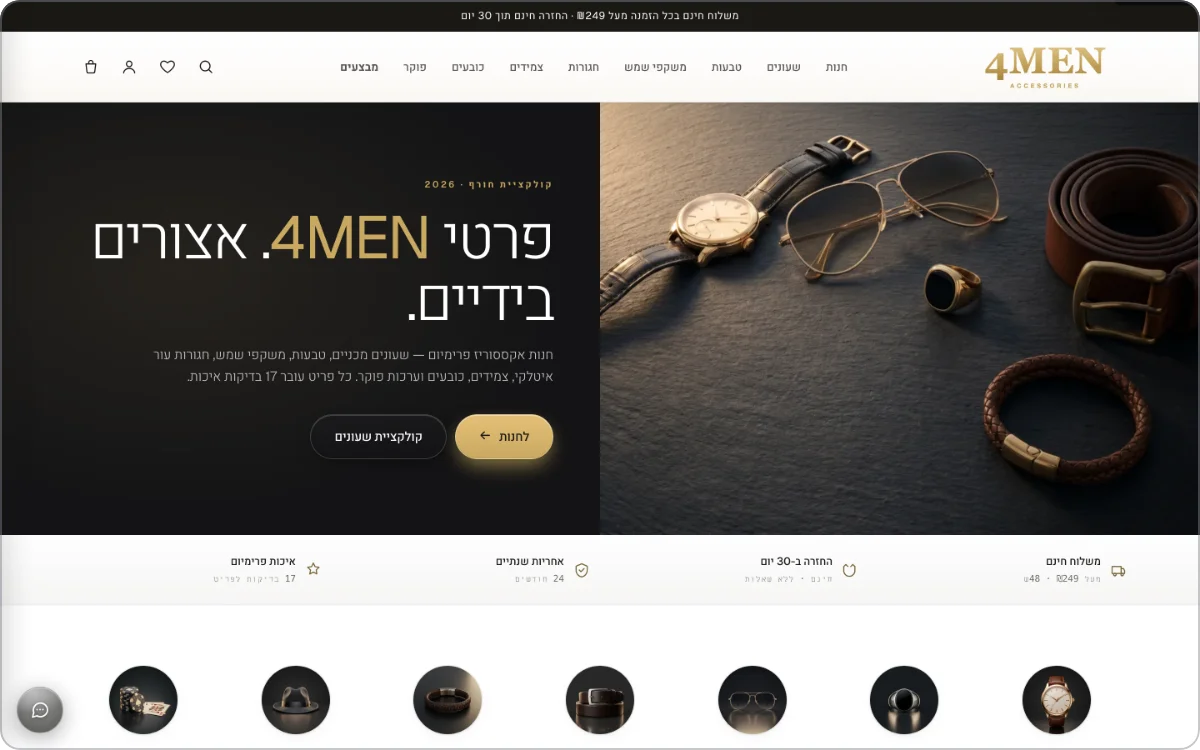
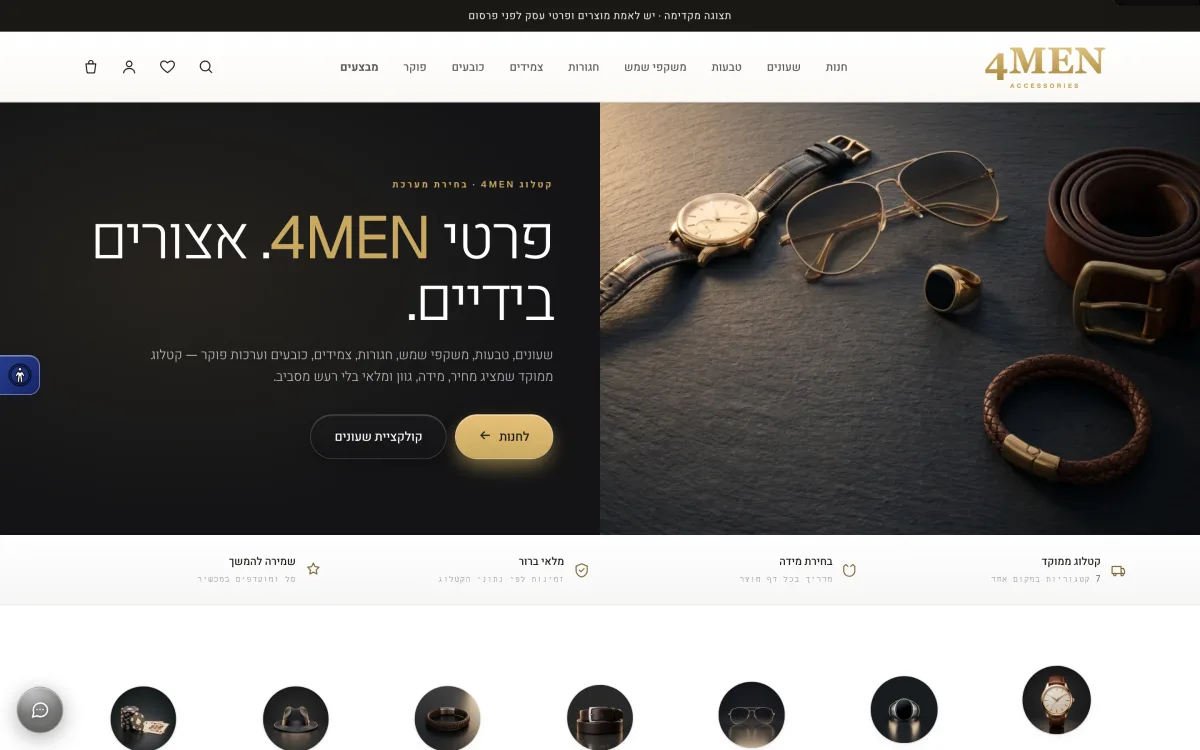
Update identity to shear559; refresh README facts and screenshots

diff --git a/README.md b/README.md
@@ -5,24 +5,24 @@
 **Live:** [gentleman4u.vercel.app](https://gentleman4u.vercel.app)
 
 <p align="center">
-  <img src="assets/preview.webp" alt="gentleman4u — the live site" width="100%">
+  <img src="assets/preview.webp" alt="4MEN — the live homepage" width="100%">
 </p>
 
 4MEN sells watches, rings, sunglasses, belts, bracelets, hats and poker sets in Israel. 17 HTML pages, 17 products across 7 categories, `HTML` + `CSS` + `JavaScript` — no framework, no build step — on `Vercel`, with `GSAP` motion over a Liquid Glass design system. The source repo is private; this page describes how it works.
 
 ## Running a storefront, a checkout and an admin panel with no server
 
-Every dynamic surface is client-side: catalog, search, cart, checkout, wishlist, account and a WooCommerce-style admin panel. Filter and sort state lives in the URL, so any view is shareable, with `?q=` results noindexed and the canonical kept category-only. Payments, real auth and transactional email are backend-phase work — checkout and login are honest client-side simulations, and the contact form is a real WhatsApp deep link, not a fake "message sent".
+Every dynamic surface is client-side: catalog, search, cart, checkout, wishlist, account and a WooCommerce-style admin panel. Filter and sort state lives in the URL, so any view is shareable, with `?q=` results noindexed and the canonical kept category-only. The store runs in one of two explicit modes: **preview**, where checkout saves an order draft in the browser and nothing is sent, or **WhatsApp**, where checkout prepares a complete order request that the customer still has to send. Login is a local profile, not authentication, and the site never claims a payment happened. Payments, real auth and transactional email are backend-phase work; the contact form is a real WhatsApp deep link, not a fake "message sent".
 
 ## Managing catalog, coupons and settings through one editable overlay
 
 The admin panel edits an in-memory copy of `PRODUCTS` / `CATEGORIES` / `COUPONS` / `SETTINGS` and persists it to `localStorage.g4u_admin`; `data.js` applies that overlay *before* `shop.js` parses, so cart pruning and search see the managed catalog, not the shipped one. "Export data.js" bakes it into a committable file — also the seed for the drafted 17-table Supabase schema.
 
-Operational constants live in one place: shipping fees, free-shipping threshold, dispatch cutoff and a typed coupon catalog (percent / flat / free-shipping, each with minimum subtotal, expiry and an active flag). Coupon copy everywhere reads `rule.label`, so no message drifts from its rule. The admin panel is a client-side operator surface, documented in-repo as convenience rather than an access control — real auth is backend-phase work.
+Operational constants live in one place: shipping fees, free-shipping threshold, dispatch cutoff and a typed coupon catalog (percent / flat / free-shipping, each with minimum subtotal, expiry and an active flag). Coupon copy is generated from the rule itself, so no message drifts from what the rule does. Each product carries a supplier-verification flag that material edits clear again; only verified products emit `Product` structured data or sitemap entries, and a launch-readiness dashboard in the admin lists the blockers — placeholder contacts, unverified products, images that fail to load — before the store may leave preview mode. The admin panel is a client-side operator surface, documented in-repo as convenience rather than an access control.
 
 ## Closing the order loop through a shared localStorage contract
 
[2 lines of base64/hex data omitted]
 
 ## Blocking scrapers and public CORS proxies at the edge
 
@@ -32,12 +32,23 @@ Checkout writes `g4u_orders` under a documented shape (`num/ts/status/items/tota
 
 ## Deleting the claims that were not true
 
-The fabricated site-wide scale numbers (12,400 customers / 3,847 reviews / 522 models), the self-serving `Organization` review JSON-LD and the invented category counts were deleted from every HTML page — counts now derive from the catalog. Legal pages ship because an Israeli store legally requires them: terms of sale with the statutory 14-day cancellation right, privacy, and an accessibility statement against IS 5568 / WCAG 2.1 AA.
+The fabricated site-wide scale numbers (12,400 customers / 3,847 reviews / 522 models), the self-serving `Organization` review JSON-LD and the invented category counts were deleted from every HTML page — counts now derive from the catalog, and demo ratings and review items are stripped from the catalog on load until a server-verified review pipeline exists. Legal pages ship because an Israeli store legally requires them: terms of sale with the statutory 14-day cancellation right, privacy, and an accessibility statement against IS 5568 / WCAG 2.1 AA.
+
+## Screenshots
+
+| Catalog with URL-backed filters | Product page with colour and size variants |
+|---|---|
+| ![4MEN — watches catalog with category and price filters](assets/shop-catalog.webp) | ![4MEN — product page with colour and size variants](assets/product-page.webp) |
+
+<p align="center">
+  <img src="assets/mobile-home.webp" alt="4MEN — homepage on mobile" width="300">
+</p>
 
 ## How it was verified
 
 - **Playwright smoke on production** — 12 pages × 2 viewports: 0 P0, 4 P1, all fixed the same day.
 - **Adversarial live regression fleet** — 7 verifiers + per-finding refutation judges, 151 checks: 0 P0/P1 and one confirmed P2 (a free-shipping coupon discounted a total that had no shipping line), fixed and re-verified.
 - **End-to-end order run** — express shipping plus a coupon, arithmetic checked to the total, order confirmed in both account and admin.
+- **Chromium + WebKit release gate** — a scripted buying flow at mobile width across all 16 public pages, covering malformed storage, order persistence, required variants, aggregate stock and the verified-only schema rule.
 
-Built by [@ArielShemesh1999](https://github.com/ArielShemesh1999).
+Source is private. Built by [@shear559](https://github.com/shear559).
